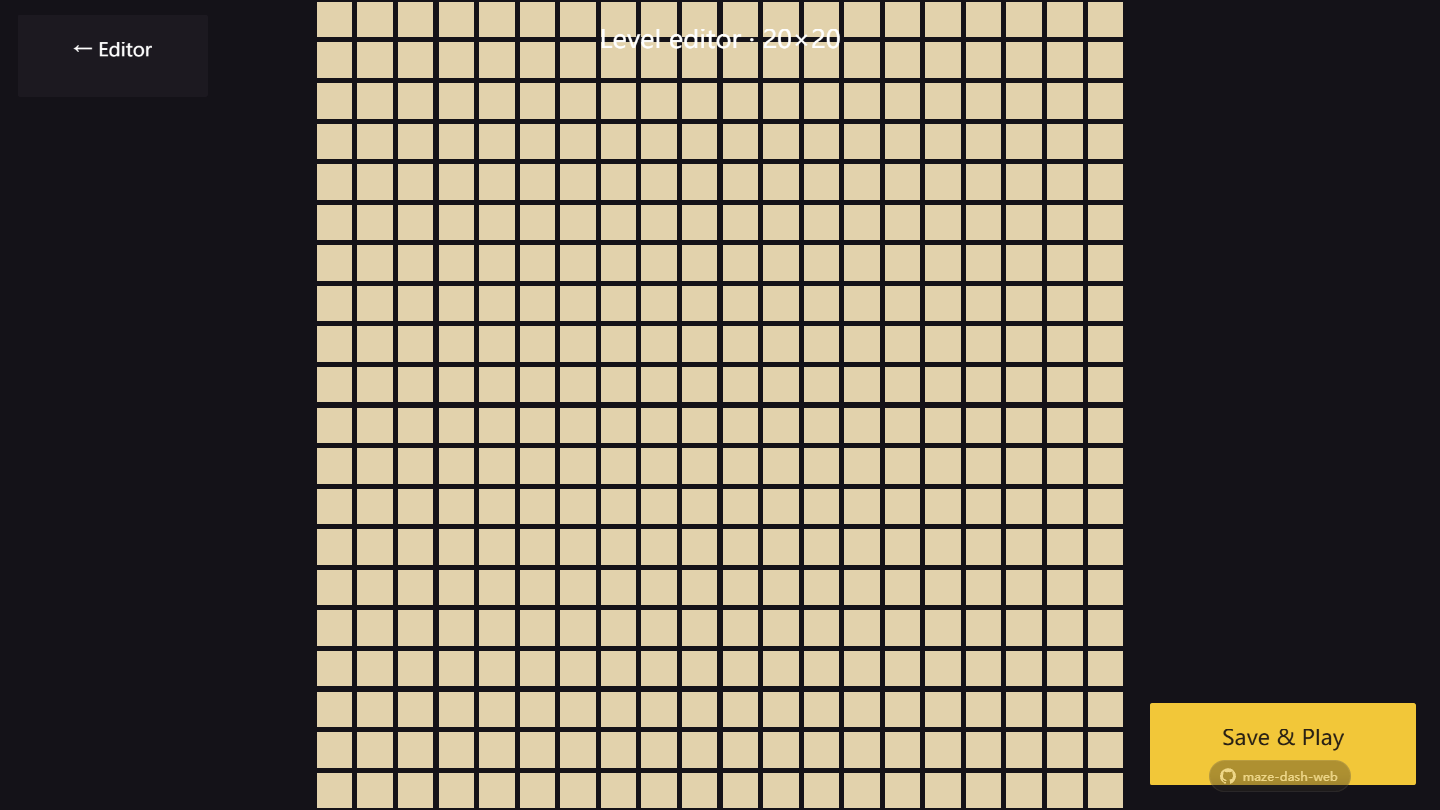
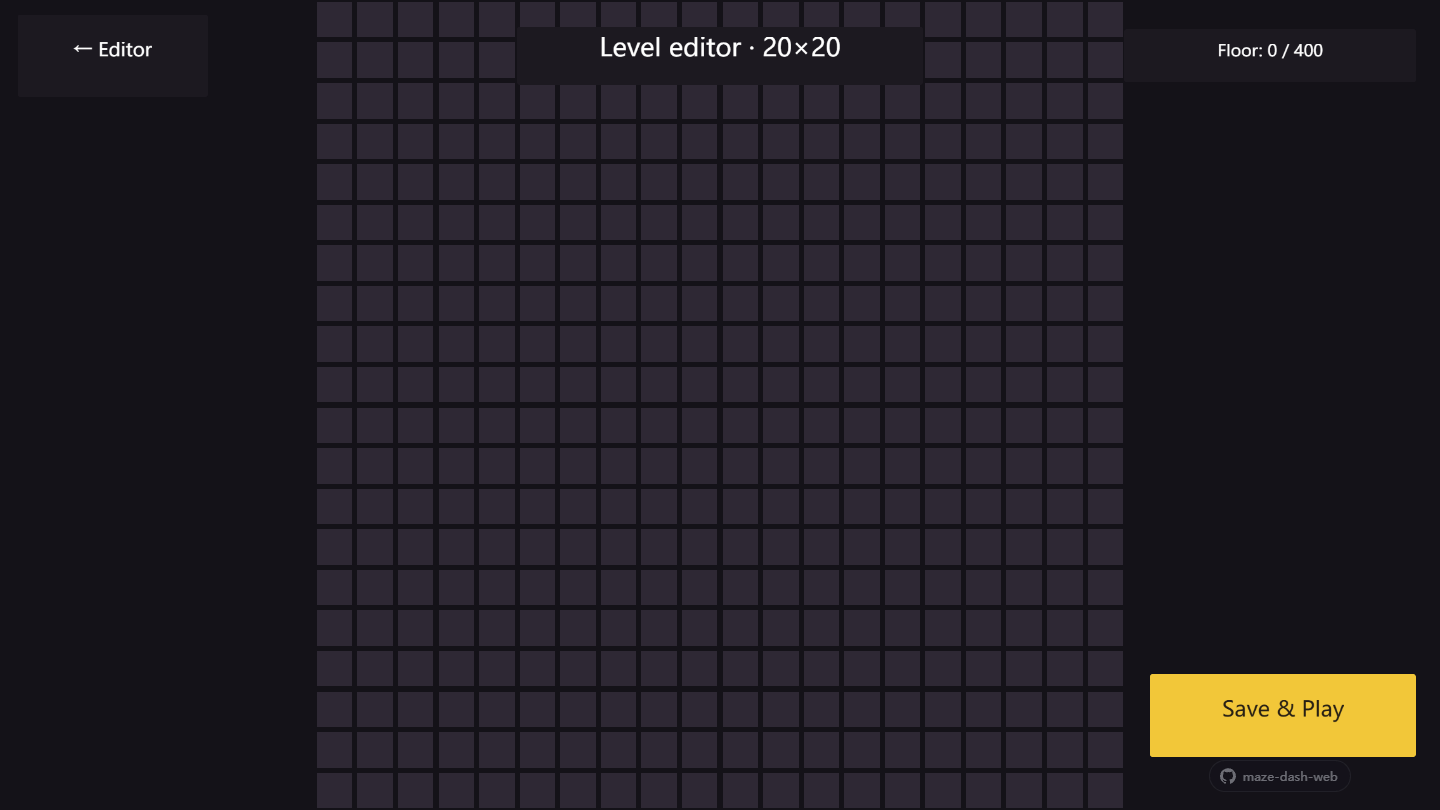
level editor phase 1: 20x20 grid window, save-and-play closed loop
Re-applied after the earlier checkout loss, this time from docs/grid-editor-reapply.md (the block is
extracted straight out of that document, so the doc and the code cannot drift).

What was added to web/custom-tab.js, all inserted immediately before buildEditorHome():
- openGridEditor / closeGridEditor   the 20x20 window: 64px pitch, 56px cells, 400 cell nodes
- gridThemeColour / paintGridCell    floor = the theme's playable colour plus a tick; wall = fixed
                                     dark (46,40,52) because the theme's light "disabled" slot was
                                     too close in value to the floor colour to read as a wall
- toggleGridCell / gridReadout       click toggles floor/wall, with a live "Floor: n / 400" pill
- saveGridAndPlay                    writes conf.all_Level / conf.level_cfg / conf.stage_level_cfg,
                                     persists, then enters the level immediately
- customLevels / saveCustomLevel / nextCustomLevelId / injectSavedLevels
                                     persistence (ids from 10000, never overwriting shipped levels)
- addEditorStrings                   editor UI strings appended to the shared language table

Four bounded wirings: editorAction routes createLevel to the editor; injectSavedLevels() runs at
boot; editorAction/openGridEditor are exported for probes; raiseActiveView returns early while the
[…]

diff --git a/web/custom-tab.js b/web/custom-tab.js
@@ -279,6 +279,9 @@
        level-select backdrops showing down its sides. Raise the visible one each tick;
        it is a no-op when the order is already right. */
     function raiseActiveView() {
+        /* while the grid editor is open the tab bar is hidden on purpose, and the hall pages
+           behind it must not be reshuffled either */
+        if (stats.tabBarHiddenForEditor) { return; }
         var hall = window.hallScene;
         if (!hall || !hall.viewGroup) { return; }
         /* Source of truth is the hall's own current tab index. The game can leave the
@@ -942,6 +945,298 @@
         } catch (e) { return null; }
     }
 
+    /* ==================== 关卡编辑器：20x20 网格（第一阶段） ====================
+       第一阶段只做"地板/墙"这一个工具，但闭环是完整的：改格子 -> 保存成新关卡 -> 立刻进关试玩。
+       网格规格按约定：格距 64px，20 格正好 1280（设计高度），方块 56px 留出网格线。
+       每个可点元素都显式给 zIndex（全屏容器会盖住并吃掉点击，这是踩过的坑）。
+       打开时隐藏标签栏：它被刻意保持在所有兄弟节点之上，会吃掉底行格子和"保存"按钮的点击。 */
+    var GRID_N = 20, GRID_PITCH = 64, GRID_TILE = 56;
+    var GRID_NAME = 'gridEditor';
+    var gridRootRef = null;
+
+    /* 地板用主题的"可玩"色；墙用固定深色 —— 实测主题的 list_level_disabled 太浅，
+       和地板色接近，"不勾=墙"读不出来。 */
+    function gridThemeColour(node, key, fallback) {
+        try {
+            var worldId = visibleWorldId(window.hallScene) || 1;
+            applyThemeColour(node, worldId, key, fallback);
+        } catch (e) { node.color = fallback; }
+    }
+
+    function paintGridCell(cell) {
+        if (!cell || !cell.isValid) { return; }
+        var floor = cell.__value === 1;
+        if (floor) {
+            gridThemeColour(cell, 'list_level_next', cc.color(255, 210, 60, 255));
+        } else {
+            cell.color = cc.color(46, 40, 52, 255);      // dark: unmistakably a wall
+        }
+        var tick = cell.getChildByName('tick');
+        if (tick && tick.isValid) { tick.active = floor; }
+    }
+
+    function closeGridEditor() {
+        var closed = false;
+        try {
+            var host = cc.find('Canvas');
+            if (host) {
+                Array.prototype.slice.call(host.children).forEach(function (n) {
+                    if (n && n.isValid && String(n.name).indexOf(GRID_NAME) === 0) { n.destroy(); closed = true; }
+                });
+            }
+        } catch (e) {}
+        if (gridRootRef && gridRootRef.isValid) { gridRootRef.destroy(); closed = true; }
+        gridRootRef = null;
+        try {
+            var hallBar2 = window.hallScene && window.hallScene.tabBar && window.hallScene.tabBar.parent;
+            if (hallBar2 && hallBar2.isValid && stats.tabBarHiddenForEditor) { hallBar2.active = true; }
+            stats.tabBarHiddenForEditor = 0;
+        } catch (e) {}
+        stats.gridEditorClosed = (stats.gridEditorClosed || 0) + 1;
+        return closed;
+    }
+
+    function openGridEditor() {
+        var host = cc.find('Canvas');
+        if (!host) { return null; }
+        closeGridEditor();
+        var W = visibleWidth(), H = visibleHeight();
+
+        var root = new cc.Node(GRID_NAME);
+        root.parent = host;
+        root.setContentSize(W, H);
+        root.zIndex = 999;                                   // above the preview overlay (998)
+        fullSprite(root, W, H, cc.color(20, 18, 24, 255));   // opaque: nothing may show through
+
+        /* --- the way out, created first and unconditionally, on top of everything --- */
+        var close = new cc.Node('gridBack');
+        close.parent = root;
+        close.setContentSize(300, 130);
+        close.x = -W / 2 + 30 + 150;
+        close.y = H / 2 - 24 - 65;
+        roundedPanel(close, cc.color(30, 26, 34, 235), 300, 130);
+        makeLabel(close, '\u2190 ' + t('backToEditor'), 0, 30, cc.color(255, 255, 255, 255)).name = 'gridBackLabel';
+        close.zIndex = 60;                                   // the grid below must never swallow this tap
+        close.on(cc.Node.EventType.TOUCH_START, function () { pressFeedback(close, true); });
+        close.on(cc.Node.EventType.TOUCH_CANCEL, function () { pressFeedback(close, false); });
+        close.on(cc.Node.EventType.TOUCH_END, function () {
+            pressFeedback(close, false);
+            if (root && root.isValid) { root.destroy(); }
+            closeGridEditor();
+            backToEditor();
+        });
+
+        /* --- title, on a pill so it stays readable over the grid cells --- */
+        var titleBg = new cc.Node('gridTitleBg');
+        titleBg.parent = root;
+        titleBg.setContentSize(640, 92);
+        titleBg.x = 0;
+        titleBg.y = H / 2 - 24 - 65;
+        titleBg.zIndex = 40;
+        roundedPanel(titleBg, cc.color(30, 26, 34, 235), 640, 92);
+        makeLabel(titleBg, t('gridTitle'), 0, 40, cc.color(255, 255, 255, 255)).name = 'gridTitle';
+
+        /* --- the grid: one node per cell, 56x56 inside a 64px pitch --- */
+        var grid = [];
+        for (var y = 0; y < GRID_N; y++) {
+            var row = [];
+            for (var x = 0; x < GRID_N; x++) { row.push(0); }
+            grid.push(row);
+        }
+        var cellsRef = [];
+        for (var gy = 0; gy < GRID_N; gy++) {
+            for (var gx = 0; gx < GRID_N; gx++) {
+                var cell = new cc.Node('cell_' + gx + '_' + gy);
+                cell.parent = root;
+                cell.setContentSize(GRID_TILE, GRID_TILE);
+                cell.x = Math.round((gx - (GRID_N - 1) / 2) * GRID_PITCH);
+                cell.y = Math.round(((GRID_N - 1) / 2 - gy) * GRID_PITCH);
+                cell.zIndex = 10;
+                fullSprite(cell, GRID_TILE, GRID_TILE, cc.color(46, 40, 52, 255));
+                cell.__value = 0;
+                cell.__gx = gx; cell.__gy = gy;
+                /* the tick mark: the checkbox look, only visible when the cell is floor */
+                var tick = makeLabel(cell, '\u2713', 0, 38, cc.color(40, 32, 20, 255));
+                tick.name = 'tick';
+                tick.active = false;
+                tick.zIndex = 11;
+                paintGridCell(cell);
+                (function (c) {
+                    c.on(cc.Node.EventType.TOUCH_START, function () { pressFeedback(c, true); });
+                    c.on(cc.Node.EventType.TOUCH_CANCEL, function () { pressFeedback(c, false); });
+                    c.on(cc.Node.EventType.TOUCH_END, function () {
+                        pressFeedback(c, false);
+                        toggleGridCell(c);
+                    });
+                })(cell);
+                cellsRef.push(cell);
+            }
+        }
+
+        /* --- controls: save & play (bottom right), readout pill (top right) --- */
+        var save = new cc.Node('gridSave');
+        save.parent = root;
+        save.setContentSize(420, 130);
+        save.x = W / 2 - 40 - 210;
+        save.y = -H / 2 + 150;
+        roundedPanel(save, cc.color(255, 210, 60, 255), 420, 130);
+        makeLabel(save, t('saveAndPlay'), 0, 34, cc.color(40, 32, 20, 255)).name = 'gridSaveLabel';
+        save.zIndex = 80;
+        save.on(cc.Node.EventType.TOUCH_START, function () { pressFeedback(save, true); });
+        save.on(cc.Node.EventType.TOUCH_CANCEL, function () { pressFeedback(save, false); });
+        save.on(cc.Node.EventType.TOUCH_END, function () {
+            pressFeedback(save, false);
+            saveGridAndPlay(grid);
+        });
+
+        var readoutBg = new cc.Node('gridReadoutBg');
+        readoutBg.parent = root;
+        readoutBg.setContentSize(460, 84);
+        readoutBg.x = W / 2 - 40 - 230;
+        readoutBg.y = H / 2 - 24 - 65;
+        readoutBg.zIndex = 40;
+        roundedPanel(readoutBg, cc.color(30, 26, 34, 235), 460, 84);
+        makeLabel(readoutBg, gridReadout(grid), 0, 26, cc.color(255, 255, 255, 220)).name = 'gridReadout';
+
+        /* expose enough for the probe to drive the same code paths the user does */
+        MazeDashCustomTab.gridEditor = {
+            root: root, grid: grid, cells: cellsRef,
+            toggle: function (x, y) { toggleGridCell(cellsRef[y * GRID_N + x]); },
+            save: function () { return saveGridAndPlay(grid); },
+            close: closeGridEditor,
+            value: function (x, y) { return grid[y][x]; },
+        };
+        gridRootRef = root;
+        animateIn(root);
+
+        /* The tab bar is deliberately kept above every sibling, so it would swallow taps on the
+           bottom rows and on the Save button. Hide it while the editor is open; that also frees
+           the full 1280px height for the 20x20 grid. */
+        try {
+            var hallBar = window.hallScene && window.hallScene.tabBar && window.hallScene.tabBar.parent;
+            if (hallBar && hallBar.isValid) { hallBar.active = false; stats.tabBarHiddenForEditor = 1; }
+        } catch (e) {}
+
+        stats.gridEditorOpened = (stats.gridEditorOpened || 0) + 1;
+        log('grid editor opened (' + GRID_N + 'x' + GRID_N + ')');
+        return root;
+    }
+
+    function gridReadout(grid) {
+        var n = 0;
+        for (var y = 0; y < grid.length; y++) { for (var x = 0; x < grid[y].length; x++) { if (grid[y][x] === 1) { n++; } } }
+        return t('floorCount') + ': ' + n + ' / ' + (GRID_N * GRID_N);
+    }
+
+    function toggleGridCell(cell) {
+        if (!cell || !cell.isValid) { return; }
+        cell.__value = cell.__value === 1 ? 0 : 1;
+        try {
+            var ed = MazeDashCustomTab.gridEditor;
+            if (ed && ed.grid && ed.grid[cell.__gy]) { ed.grid[cell.__gy][cell.__gx] = cell.__value; }
+        } catch (e) {}
+        paintGridCell(cell);
+        try {
+            var root = cell.parent;
+            var ro = root && root.getChildByName('gridReadoutBg');
+            var lb = ro && ro.getChildByName('gridReadout') && ro.getChildByName('gridReadout').getComponent(cc.Label);
+            if (lb && MazeDashCustomTab.gridEditor) { lb.string = gridReadout(MazeDashCustomTab.gridEditor.grid); }
+        } catch (e) {}
+        stats.gridToggles = (stats.gridToggles || 0) + 1;
+    }
+
+    /* ---- persistence: levels live in localStorage and are re-injected on boot ---- */
+    var CUSTOM_LEVELS_KEY = 'maze_dash_custom_levels';
+    function customLevels() {
+        try { return JSON.parse(localStorage.getItem(CUSTOM_LEVELS_KEY) || '{}') || {}; } catch (e) { return {}; }
+    }
+    function saveCustomLevel(id, data) {
+        try {
+            var all = customLevels();
+            all[String(id)] = data;
+            localStorage.setItem(CUSTOM_LEVELS_KEY, JSON.stringify(all));
+        } catch (e) {}
+    }
+    function nextCustomLevelId() {
+        var used = customLevels(), id = 10000;
+        while (used[String(id)] || (conf.level_cfg && conf.level_cfg[id]) || (conf.all_Level && conf.all_Level[id])) { id++; }
+        return id;
+    }
+    /* put saved levels back into the conf tables (they are rebuilt from the shipped data on load) */
+    function injectSavedLevels() {
+        var all = customLevels(), n = 0;
+        Object.keys(all).forEach(function (k) {
+            var rec = all[k], id = parseInt(k, 10);
+            if (!rec || !rec.grid) { return; }
+            try {
+                conf.all_Level[id] = rec.grid;
+                var entry = { id: id, wordId: rec.world || TEST_WORLD, levelId: rec.levelId || 1, mapId: id, sz_solution: '' };
+                conf.level_cfg[id] = entry;
+                var world = entry.wordId;
+                conf.stage_level_cfg[world] = conf.stage_level_cfg[world] || {};
+                conf.stage_level_cfg[world][String(id)] = entry;
+                n++;
+            } catch (e) {}
+        });
+        stats.levelsInjected = (stats.levelsInjected || 0) + n;
+        return n;
+    }
+
+    /* ---- save: write the three conf tables, persist, then play it immediately ---- */
+    function saveGridAndPlay(grid) {
+        var id = nextCustomLevelId();
+        var worlds = customWorlds();
+        var world = Number(Object.keys(worlds)[0] || 0) || TEST_WORLD;
+        try {
+            conf.worlds[world] = conf.worlds[world] || { id: world, require: 0 };
+            conf.stage_cfg[world] = conf.stage_cfg[world] || {};
+            conf.stage_level_cfg[world] = conf.stage_level_cfg[world] || {};
+            conf.theme_cfg[world] = conf.theme_cfg[world] || JSON.parse(JSON.stringify(conf.theme_cfg[1] || {}));
+            var copy = JSON.parse(JSON.stringify(grid));
+            /* A level with no -1 never starts, and phase 1 has no "place hero" tool, so put one
+               on the first floor cell. This is the only cell the editor adds by itself. */
+            var hasHead = false;
+            for (var hy = 0; hy < copy.length; hy++) { for (var hx = 0; hx < copy[hy].length; hx++) { if (copy[hy][hx] === -1) { hasHead = true; } } }
+            if (!hasHead) {
+                for (var sy = 0; sy < copy.length && !hasHead; sy++) {
+                    for (var sx = 0; sx < copy[sy].length; sx++) {
+                        if (copy[sy][sx] === 1) { copy[sy][sx] = -1; hasHead = true; stats.editorAutoHead = sx + ',' + sy; break; }
+                    }
+                }
+            }
+            conf.all_Level[id] = copy;
+            var display = Object.keys(conf.stage_level_cfg[world]).length + 1;
+            var entry = { id: id, wordId: world, levelId: display, mapId: id, sz_solution: '' };
+            conf.level_cfg[id] = entry;
+            conf.stage_level_cfg[world][String(id)] = entry;
+            saveCustomLevel(id, { grid: copy, world: world, levelId: display, name: t('createLevel') + ' ' + display });
+            try { if (window.MazeDashCustomTab && MazeDashCustomTab.refreshStagePages) { MazeDashCustomTab.refreshStagePages(); } } catch (e) {}
+            stats.editorSavedLevel = id;
+            stats.editorSavedWorld = world;
+            log('saved level', id, 'into world', world);
+        } catch (e) {
+            warn('save level failed:', e && e.message);
+            return null;
+        }
+        closeGridEditor();
+        try { gamemain.enterEnterGameScene(id); } catch (e) { warn('enter failed:', e && e.message); }
+        return id;
+    }
+
+    /* Editor-only UI strings, appended to the shared table rather than editing its big literal.
+       Unknown languages fall back to English through t(). */
+    (function addEditorStrings() {
+        var add = {
+            'zh-Hans': { gridTitle: '\u5173\u5361\u7f16\u8f91\u5668 \u00b7 20\u00d720', saveAndPlay: '\u4fdd\u5b58\u5e76\u8bd5\u73a9', floorCount: '\u5730\u677f' },
+            'zh-Hant': { gridTitle: '\u95dc\u5361\u7de8\u8f2f\u5668 \u00b7 20\u00d720', saveAndPlay: '\u4fdd\u5b58\u4e26\u8a66\u73a9', floorCount: '\u5730\u677f' },
+            'en':      { gridTitle: 'Level editor \u00b7 20\u00d720', saveAndPlay: 'Save & Play', floorCount: 'Floor' },
+            'ja':      { gridTitle: '\u30b9\u30c6\u30fc\u30b8\u7de8\u96c6 \u00b7 20\u00d720', saveAndPlay: '\u4fdd\u5b58\u3057\u3066\u30d7\u30ec\u30a4', floorCount: '\u5e8a' },
+        };
+        Object.keys(add).forEach(function (lang) {
+            if (!TEXT[lang]) { TEXT[lang] = {}; }
+            Object.keys(add[lang]).forEach(function (k) { TEXT[lang][k] = add[lang][k]; });
+        });
+    })();
     function buildEditorHome(view) {
         if (!view || !view.isValid || view.__editorHome) { return; }
         view.__editorHome = true;
@@ -1351,6 +1646,7 @@
         if (id === 'previewWorld') { previewCustomWorld(); return; }
         if (id === 'previewLevel') { previewCustomLevel(); return; }
         if (id === 'exportJson') { exportCustomJson(); return; }
+        if (id === 'createLevel') { openGridEditor(); return; }
         stats.editorActionAt = Date.now();
         log('editor action:', id, '(destination screen not built yet)');
         var hall = window.hallScene;
@@ -2121,6 +2417,7 @@
         makeShowBarViewResilient(hall);
         guardWorldTable();
         seedTestLevel();
+        injectSavedLevels();
         installKeys();
         try { buildModeSwitch(hall); } catch (e) { warn('mode switch failed:', e); }
         try { buildEditorHome(hall.viewGroup && hall.viewGroup[CFG.index]); } catch (e) { warn('editor home failed:', e && e.message ? e.message : e); }
@@ -2195,6 +2492,8 @@
 
     /* Small API so the editor (and the tests) can drive the tab. */
     window.MazeDashCustomTab = {
+        editorAction: function (id) { return editorAction(id); },
+        openGridEditor: function () { return openGridEditor(); },
         index: CFG.index,
         /** re-divide the bar, e.g. after slots are hidden */
         relayout: function () { try { layoutTabs(window.hallScene); } catch (e) {} },
